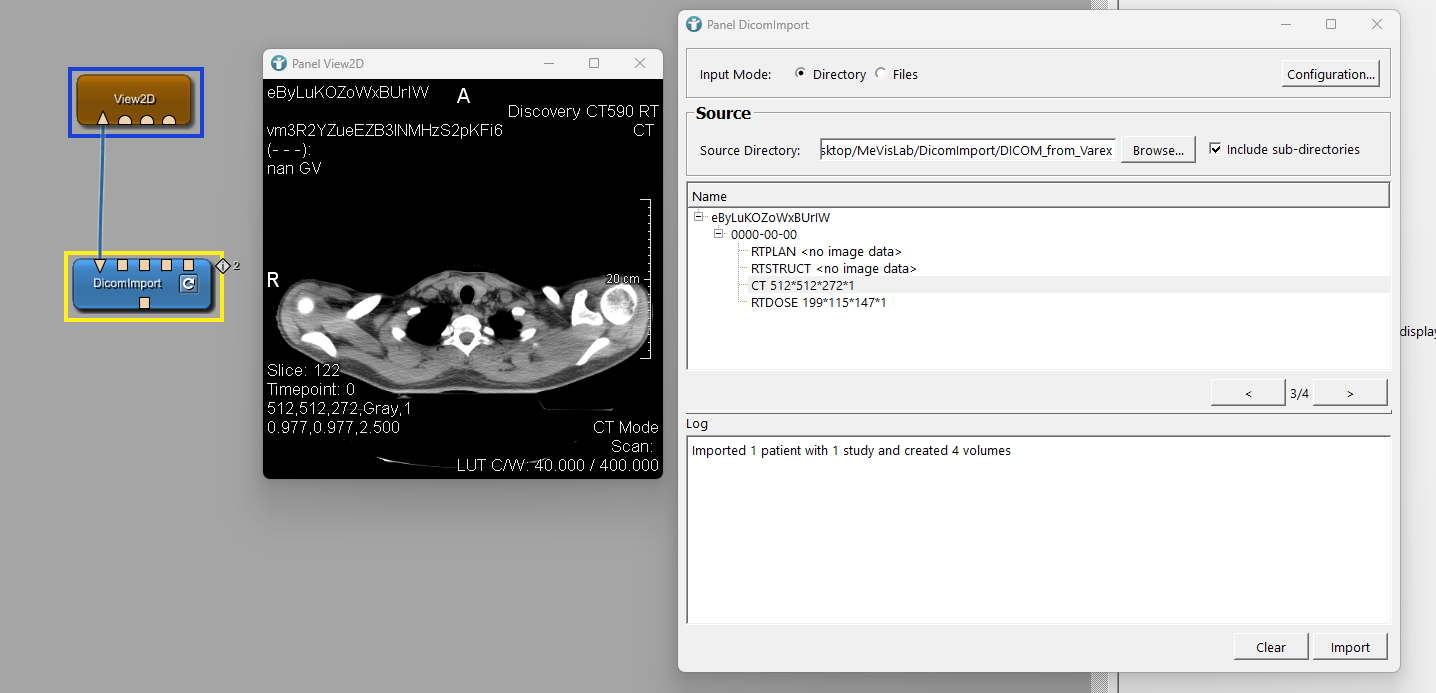
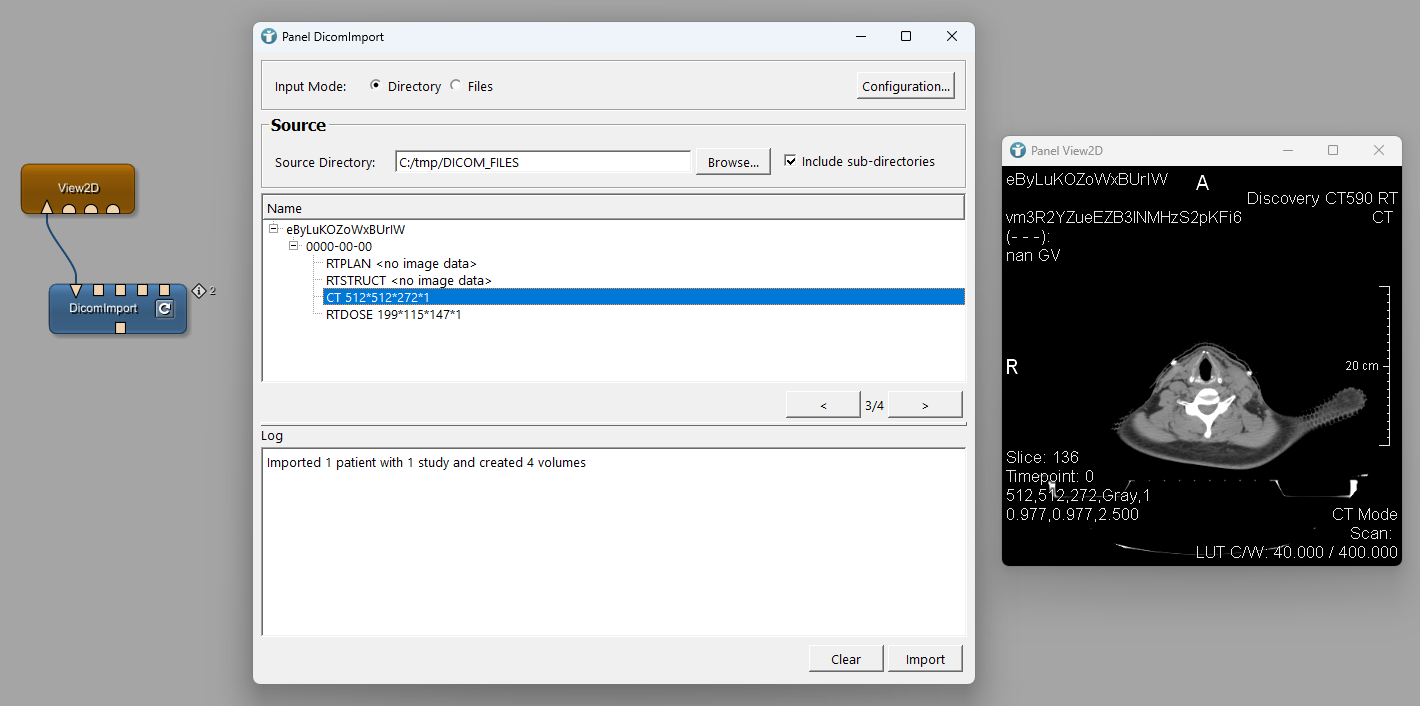
Changes after review

diff --git a/mevislab.github.io/content/tutorials/image_processing/image_processing6.md b/mevislab.github.io/content/tutorials/image_processing/image_processing6.md
@@ -4,7 +4,7 @@ date: 2025-05-05
 status: "OK"
 draft: false
 weight: 630
-tags: ["Advanced", "Tutorial", "Image Processing", "DICOM", "RTSTRUCT"]
+tags: ["Advanced", "Tutorial", "Image Processing", "DICOM", "RTSTRUCT", "RTDOSE", "RTPLAN"]
 menu: 
   main:
     identifier: "imageprocessing6"
@@ -28,6 +28,7 @@ We use the `ExtractRTStruct`module for this example.
 * **RTDOSE**: Shows planned 3D dose distribution. 
 * **RTPLAN**: Contains treatment plan details like beams and dose settings.
 Together, they ensure accurate and safe radiotherapy delivery.
+
 ## Prepare your network
 First, we need to download the ZIP file at **DICOM patient export**  from:
 
@@ -35,17 +36,22 @@ https://medicalaffairs.varian.com/headandneckbilat-imrtsx2
 
 It contains the CT, RTSTRUCT, and RTDOSE files needed for this tutorial to work correctly in MeVisLab.
 
+{{<alert class="warning" caption="Attention">}}
+This data is FOR EDUCATIONAL AND SCIENTIFIC EXCHANGE ONLY – NOT FOR SALES OR PROMOTIONAL USE.
+{{</alert>}}
 
-(*Create new folder named* **DICOM_from_Varian** ...*Copy the ZIP file into this folder*).
+Create new folder named *DICOM_FILES*. Extract the ZIP file into this folder.
 
 We will use it in this tutorial. 
 
 Add the module `DicomImport` to your workspace. 
 
 !["DicomImport](/images/tutorials/image_processing/Dicommm.png "DicomImport")
-Then *click Browse and select the new folder named *DICOM_from_Varian* where you copied the ZIP file earlier, then press Import*. You can see it in the below figure:
 
-![Importing DICOM RT Data from the DICOM_from_Varian Folder](/images/tutorials/image_processing/Import.png "Importing DICOM RT Data from the DICOM_from_Varian Folder")
+Then click Browse and select the new folder named *DICOM_FILES* where you copied the ZIP file earlier, then press Import. You can see it in the below figure:
+
+![Importing DICOM RT Data from the DICOM_FILES Folder](/images/tutorials/image_processing/Import.png "Importing DICOM RT Data from the DICOM_FILES Folder")
+
 Now add a `View2D` module and connect it to `DicomImport`. 
 
 As shown in the Data Tree (middle pane), the imported DICOM RT structure includes:
@@ -64,19 +70,16 @@ When you expand the tree view you will see:
 
 After connecting, open the `View2D` and click on each of these items to visualize the corresponding data in the viewer, as shown in the figures below.
 
+{{< imagegallery 4 "/images/tutorials/image_processing/" "RTPLAN" "RTSTRUCT" "CT512" "RTDOSE">}}
 
-{{< imagegallery 4 "/images/tutorials/image_processing/" "RTPLANN" "RTSTRUCTTT" "CT512" "RTDOSEE">}}
-
-
-We select the CT 512×512×272×1 because it’s the foundation for viewing and aligning all other radiotherapy data.
+Select the CT 512×512×272×1 series.
 We now want to view the CT images and the RTSTRUCT data together. The module `DicomImport` only allows to select one single object. In order to select more than one object, we use a `DicomImportExtraOutput` module. Select the CT series in the `DicomImport` module and the RTSTRUCT in the `DicomImportExtraOutput` module.
 
 You have to select the correct index for the RTSTRUCT. In our example it is index 2.
 
-Add `DicomImportExtraOutput`module as shown in the below :
+Add `DicomImportExtraOutput` module as shown in the below :
 
 ![Selecting CT and RTSTRUCT in DicomImport](/images/tutorials/image_processing/SELECTINGCTRTSTRUCT.png "Selecting CT and RTSTRUCT in DicomImport")
-
 
 ### **Visualize RTSTRUCTs as colored CSOs:**
 
@@ -87,7 +90,7 @@ Then coonect it with the `DicomImportExtraOutput` as shown in the figure:
 ![ExtractRTStruct vonverter](/images/tutorials/image_processing/converter.png "ExtractRTStruct converter")
 
 
-Add `SoView2DCSOExtensibleEdito ` to enable visualization and interaction with the CSOs in the 2D viewer, allowing you to edit and work with the contours directly. Connect it with `View2D` and `ExtractRTStruct` modules, as shown, where `View2D` displays the CT scan with the contours.
+Add `SoView2DCSOExtensibleEditor` to enable visualization and interaction with the CSOs in the 2D viewer, allowing you to edit and work with the contours directly. Connect it with `View2D` and `ExtractRTStruct` modules, as shown, where `View2D` displays the CT scan with the contours.
 
 ![Connecting SoView2DCSOExtensibleEditor](/images/tutorials/image_processing/cotour.png "Connecting SoView2DCSOExtensibleEditor")
 
@@ -95,7 +98,7 @@ There are no names for the contours by default, we want to show the names for th
 
 ![CSOLabelRenderer](/images/tutorials/image_processing/CSOLabelRenderer.png " CSOLabelRenderer")
 
-As you can see, the contours are labeled with numbers, so we need to display proper names. To do this, open the `CSOLabelRenderer` panel — it will display the panel shown below.
+As you can see, the contours are labeled with numbers. We want to show the names for the contour to identify the segmented structure. To do this, open the `CSOLabelRenderer` panel — it will display the panel shown below.
 
  
 ![CSOLabelRenderer panel](/images/tutorials/image_processing/CSOLabelRendererpanel.png "CSOLabelRenderer panel")
@@ -107,64 +110,55 @@ labelString = cso.getGroupAt(0).getLabel()
 ```
 {{</highlight>}}
 
-Then press apply.
+Then press apply. You can see the names of the structures next to the contours.
 
 ![Edited CSOLabelRenderer Panel](/images/tutorials/image_processing/contournamed.png " Edited CSOLabelRenderer Panel")
-
 
 ### **3D Visualization of Contours Using `SoExaminerViewer`**
 
 If you want to visualize the contours in 3D, follow these steps:
 
-Add the `SoCSO3DRenderer` module and connect it to the `ExtractRTStruc`t module.
-(The `SoCSO3DRenderer` will render the contours (CSOs) in the 3D space).
+Add the `SoCSO3DRenderer` module and connect it to the `ExtractRTStruct` module. The `SoCSO3DRenderer` will render the contours (CSOs) in the 3D space.
 
-Add the `SoExaminerViewer` module and connect it to the `SoCSO3DRenderer` module.
-( The `SoExaminerViewer` will allow you to view the 3D contours. You can rotate, zoom, and move around the 3D image.)
-The following figure is the network and the result : 
+Add the `SoExaminerViewer` module and connect it to the `SoCSO3DRenderer` module. The `SoExaminerViewer` will allow you to view the 3D contours. You can rotate, zoom, and move around the 3D image.
+
+The following figure shows the network and the result: 
 
 ![3D Visualization of Contours Using SoExaminerViewe](/images/tutorials/image_processing/3D.png "3D Visualization of Contours Using SoExaminerViewe")
 
-
-
 ### **Visualizing RTDOSE as a Color Overlay Using LUT**
 
-Now we need to add another `DicomImportExtraOutput` module to import multiple DICOM objects ,You have to select the right index for the  example it is index 4 thats mean RTDOSE 199*115*147*1 . Add `MinMaxScan`module to scan the input image and updates the minimum and maximum values of the output image, and connect it with the `DicomImportExtraOutput` 
+Now we need to add another `DicomImportExtraOutput` module to import multiple DICOM objects ,You have to select the right index for the  example it is index 4 thats mean RTDOSE 199*115*147*1 . Add `MinMaxScan` module to scan the input image and updates the minimum and maximum values of the output image, and connect it with the `DicomImportExtraOutput`.
+
 ![Importing RTDOSE Data and Applying MinMaxScan for Image Normalization](/images/tutorials/image_processing/minmaxscan.png "Importing RTDOSE Data and Applying MinMaxScan for Image Normalization")
 
-Add ` Histogram`  module to calculate the image's intensity distribution, and connect it with `MinMaxScan`.
+Add `Histogram` module to calculate the image's intensity distribution, and connect it with `MinMaxScan`.
 
-The `Histogram` module computes the image's intensity distribution, and is connected to the `SoLUTEditor` to modify the lookup table (LUT). The LUT is then passed to the `SoGroup`, which is connected to the `SoView2DOverlay` to blend the 2D image overlay in a 2D viewer. The `SoLUTEditor` allows interactive editing of the LUT, while `SoView2DOverlay` facilitates overlaying the modified image in a 2D scene. Note that `SoView2DOverlay` is for 2D blending, and `GVROrthoOverlay` should be used for OrthoView2D.
- The below figure is shows connnection of the network:
+The `Histogram` module computes the image's intensity distribution, and is connected to the `SoLUTEditor` module to modify the lookup table (LUT). The LUT is then passed to the `SoGroup` module, which is connected to the `SoView2DOverlay` module to blend the 2D image overlay in a 2D viewer. The `SoLUTEditor` module allows interactive editing of the LUT, while `SoView2DOverlay` module facilitates overlaying the modified image in a 2D scene.
+
+Note that the `SoView2DOverlay` module is for 2D blending, and the `GVROrthoOverlay` module should be used for `OrthoView2D`.
+
+The below figure is shows connnection of the network:
 
 ![Workflow for Intensity Distribution and 2D Image Overlay using LUT Editing"](/images/tutorials/image_processing/net.png "Workflow for Intensity Distribution and 2D Image Overlay using LUT Editing")
 
-
-Now we should update the `Histogram` by pressing the update button on it.
-
+Now we should update the `Histogram` module by pressing the update button on it.
 
 ![Update Histogram](/images/tutorials/image_processing/histo.png " Update Histogram")
 
-
-Now Open `SoLUTEditor`, go to ... *Range* ... *Update Range From Histogram* to apply the histogram values, as shown in the figure :
+Now Open `SoLUTEditor` module panel, go to *Range*, *Update Range From Histogram* to apply the histogram values, as shown in the figure:
 
 ![SoLUTEditor Panel](/images/tutorials/image_processing/solut.png "SoLUTEditor Panel")
 
-Then in the same panel from (*Editor*... *change the color of the values*) , as shown in the figure: 
-
+Then in the same panel from (*Editor*... *change the color of the values*), as shown in the figure: 
 
 ![SoLUTEditor Panel Editior](/images/tutorials/image_processing/editior.png " SoLUTEditor Panel Editior")
-
 
 Finally, when you press `View2D `, it will display a 2D anatomical image with a colored RTDOSE overlay, where the dose distribution is visualized using a customized Lookup Table (LUT) that clearly highlights the radiation intensity levels within the body.
 
 ![Visualizing RTDOSE as a Color Overlay Using LUT](/images/tutorials/image_processing/2df.png "Visualizing RTDOSE as a Color Overlay Using LUT")
 
-
----
-
 ## **Summary**
-
 * Load DICOM RT data including RTDOSE and RTSTRUCT .
 * Visualize RTSTRUCTs with `ExtractRTStruct` and `CSOLabelRenderer`.
 * Display contour labels using `CSOLabelRenderer`.
